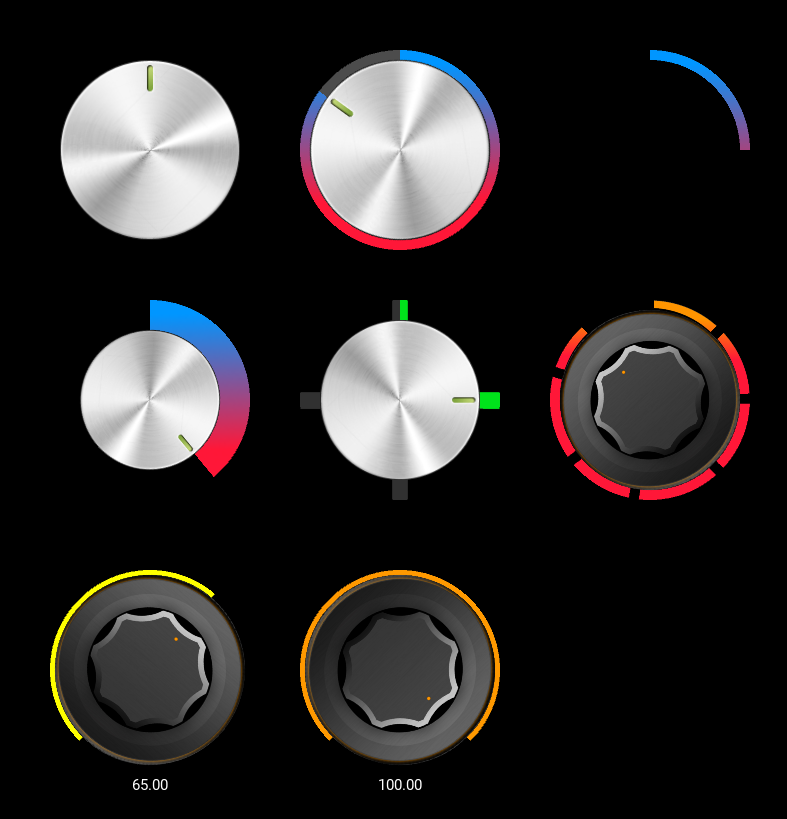
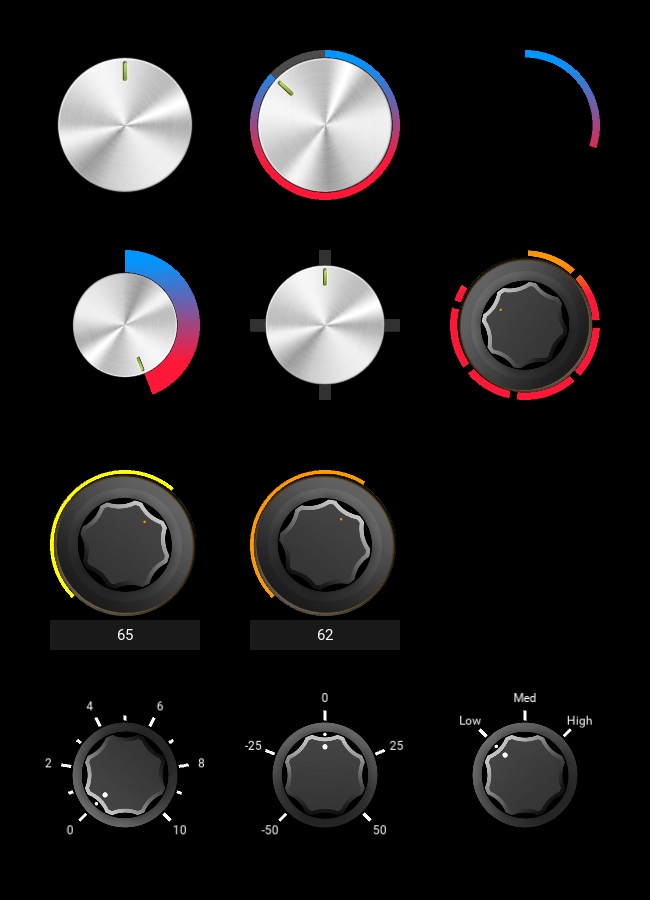
Updated example and screenshot.

diff --git a/example.py b/example.py
@@ -9,6 +9,37 @@ if os.path.isfile('__init__.py'):
 else:
     from kivy.garde.knob import Knob, KnobWithTicks, Tick
 
+from kivy.config import Config
+Config.set('graphics', 'width', '650')
+Config.set('graphics', 'height', '900')
+Config.set('graphics', 'resizable', False)
+Config.set('input', 'mouse', 'mouse,multitouch_on_demand')
+
+class DecimalTickKnob(KnobWithTicks):
+    def __init__(self, *args, **kwargs):
+        ticks = []
+        for i in range(0,11,2):
+            ticks.append(Tick(value=i))
+            ticks.append(Tick(value=i, text=str(i), distance=25))
+        for i in range(1,10,2):
+            ticks.append(Tick(value=i, size=(3,5)))
+        super().__init__(ticks, *args, **kwargs)
+
+class SymmetricTickKnob(KnobWithTicks):
+    def __init__(self, *args, **kwargs):
+        ticks = [
+            Tick(value=-50),
+            Tick(value=-50, text="-50", distance=25),
+            Tick(value=-25),
+            Tick(value=-25, text="-25", distance=25),
+            Tick(value=0),
+            Tick(value=0, text="0", distance=25),
+            Tick(value=25),
+            Tick(value=25, text="25", distance=25),
+            Tick(value=50),
+            Tick(value=50, text="50", distance=25),
+        ]
+        super().__init__(ticks, *args, **kwargs)
 
 class RangeTickKnob(KnobWithTicks):
     def __init__(self, *args, **kwargs):

diff --git a/knob.py b/knob.py
@@ -16,7 +16,7 @@
 """
 
 __all__     = ('Knob',)
-__version__ = '0.2'
+__version__ = '0.3'
 
 import math
 
